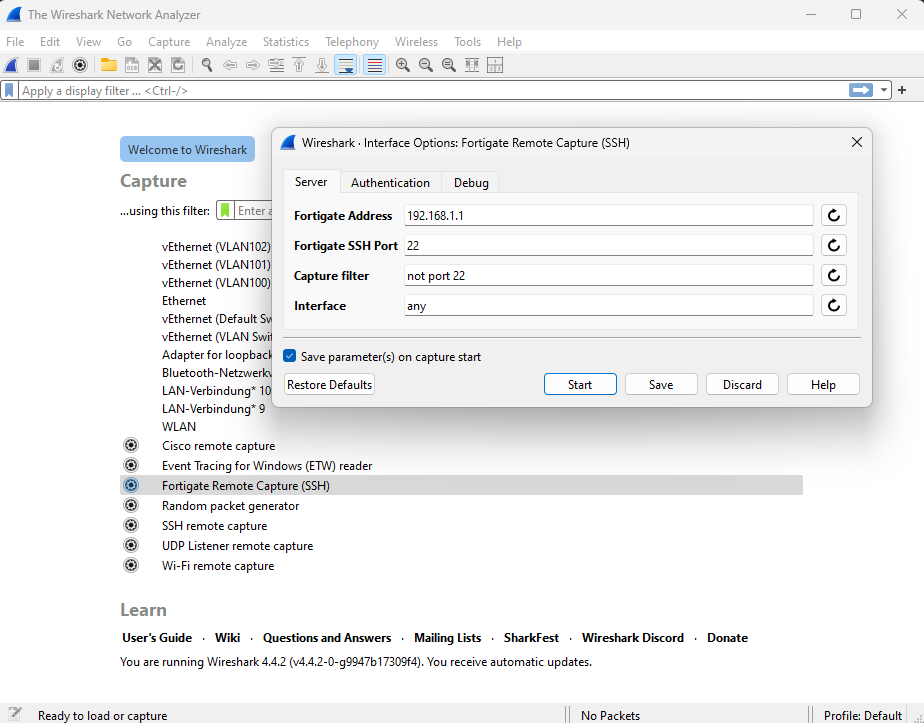
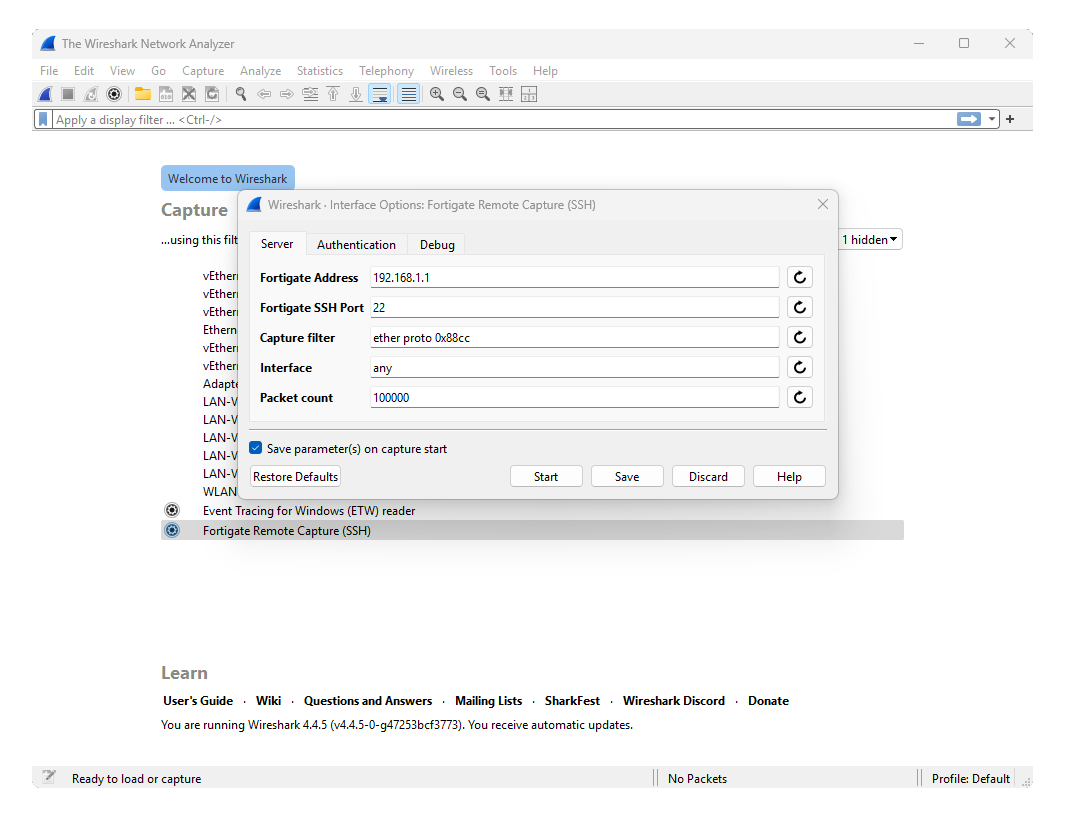
Documentation update (#7)
* Update README.md

* screenshot update - 0.0.3alpha2

* Update README.md

limitations

* Update README.md

new chapters build and quick-start / text optimizations

diff --git a/README.md b/README.md
@@ -4,36 +4,75 @@
 
 ## Description
 
-This Wireshark Extcap extension enables live network packet capture directly from Fortigate devices into Wireshark.
+This Wireshark Extcap plugin enables real-time packet capture directly from Fortigate devices, streamlining network troubleshooting. It supports defining capture filters within Wireshark and allows multiple parallel capture sessions for enhanced flexibility and analysis.
 
-asdfsadfadsf
+Extcap plugins extend Wireshark’s capture capabilities by allowing it to collect packets from external sources, such as remote devices or specialized hardware, instead of just local network interfaces. This makes it possible to capture traffic from Fortigate firewalls directly within Wireshark, without needing additional tools or manual exports.
+
 ![Wireshark Screenshot](images/wireshark-extcap.png)
 
 ## Features
 
-- Capture packets live into Wireshark
+- Capture & Stream packets directly from the Fortigate into Wireshark
+- SSH password or SSH key authentication
+- Run parallel capture sessions
 - Fortigate VDOM Support
 - Simple installation
-
+  
 ## Installation
 
 1. Download the Latest Version
  - Visit the [Releases](https://github.com/sanderzegers/fortigate-extcap/releases/) page and download the version that matches your platform.
 
-2. Locate the Personal Extcap Path
+2. Locate the Personal Extcap Folder
  - Open Wireshark.
  - Navigate to Help → About Wireshark → Folders → Personal Extcap Path.
  - Click the Location to open the Extcap folder.
 
-3. Copy the binary to excapt folder
+3. Copy the binary to the Extcap folder
  - From the downloaded release, copy the fortigate-extcap.exe (or the appropriate file for your platform) into the "Personal Extcap Path" directory.
 
 4. Restart Wireshark
- - Restart Wireshark to load the custom extcap extension.
+ - Restart Wireshark to load the custom Extcap extension.
+
+## Quick Start
+
+Once the plugin is installed, it will appear in Wireshark under the capture options as **Fortigate Remote Capture (SSH): fortidump**.
+Click the gear icon to configure the following parameters:
+
+**Server Tab**
+- **Fortigate Address:** IP or hostname of the target Firewall.
+- **Fortigate SSH Port:** The SSH port used to connect.
+- **Capture Filter:** Capture filter in tcpdump format. Adjust this to match the traffic you're interested in.
+- **Interface:** The Fortigate interface where the capture will run.
+- **Packet count:** The maximum number of packets to capture.
+
+**Authentication Tab:**
+- **Username:** SSH Username (eg admin). This user must have permissions to capture on the Fortigate
+- **Password:** The user's password or optionally the password for the SSH private key
+
+Once everything is configured, start the Extcap by double-clicking it.
+
+## Building from Source
+
+To build the binary on your local machine, make sure Go and Git are installed. 
+You can find the plugin folder location in the installation instructions.
+
+Prerequisites: go and git
+```bash
+apt install git golang-go
+```
+
+```bash
+git clone https://github.com/sanderzegers/fortigate-extcap.git
+cd fortigate-extcap
+go build fortidump.go
+mkdir -p $HOME/.local/lib/wireshark/extcap
+cp fortidump $HOME/.local/lib/wireshark/extcap/fortigate-extcap
+```
 
 ## Known limitations
-
-This extcap is still under development. Currently it's in an early alpha stage.
+- Capture speed is limited to about 10 packets per second, so the tcpdump filter must be set accordingly to limit forwarded packages.
+- This Extcap plugin is still under development. Currently it's in an early beta stage.
 
 ## License
 
